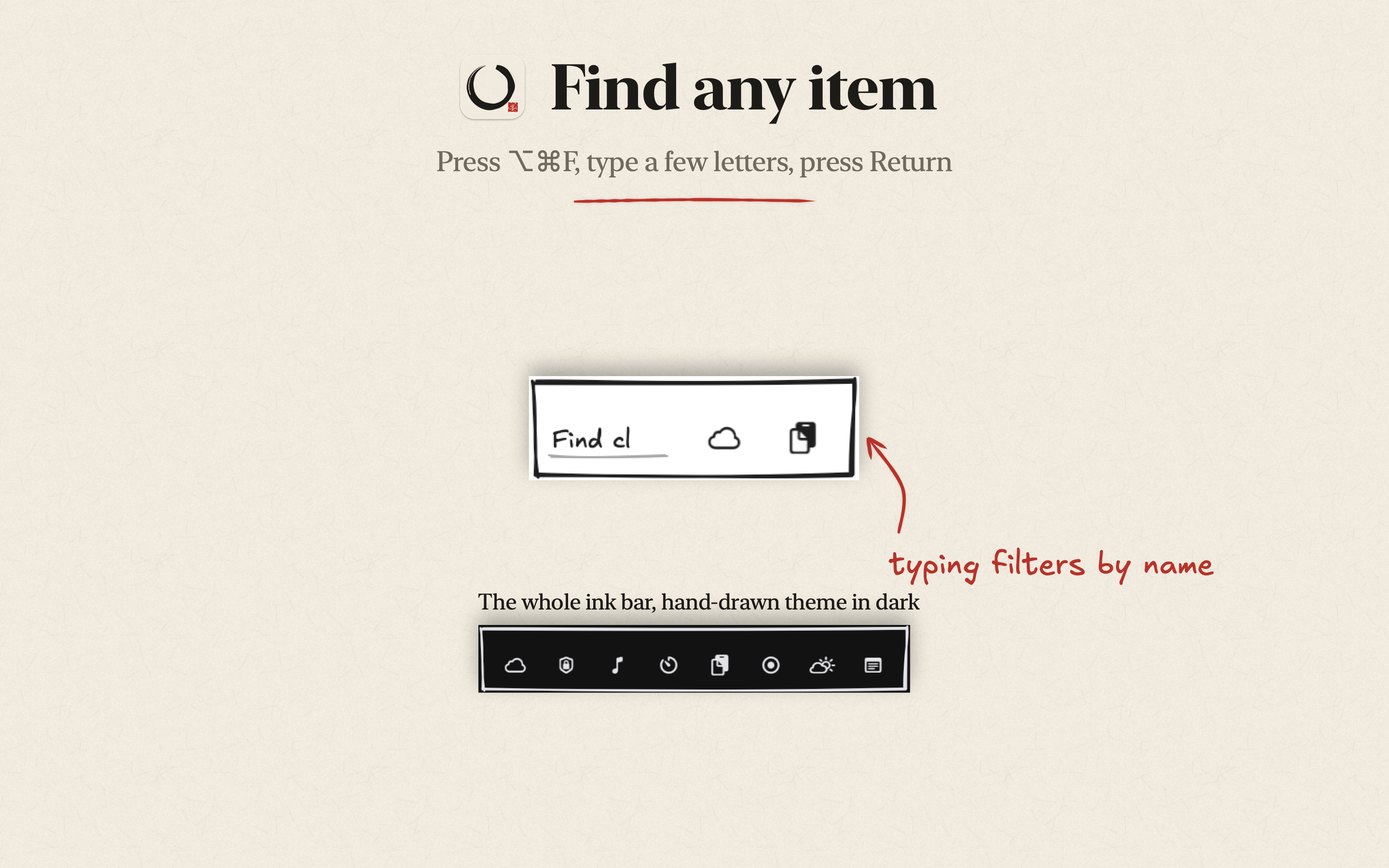
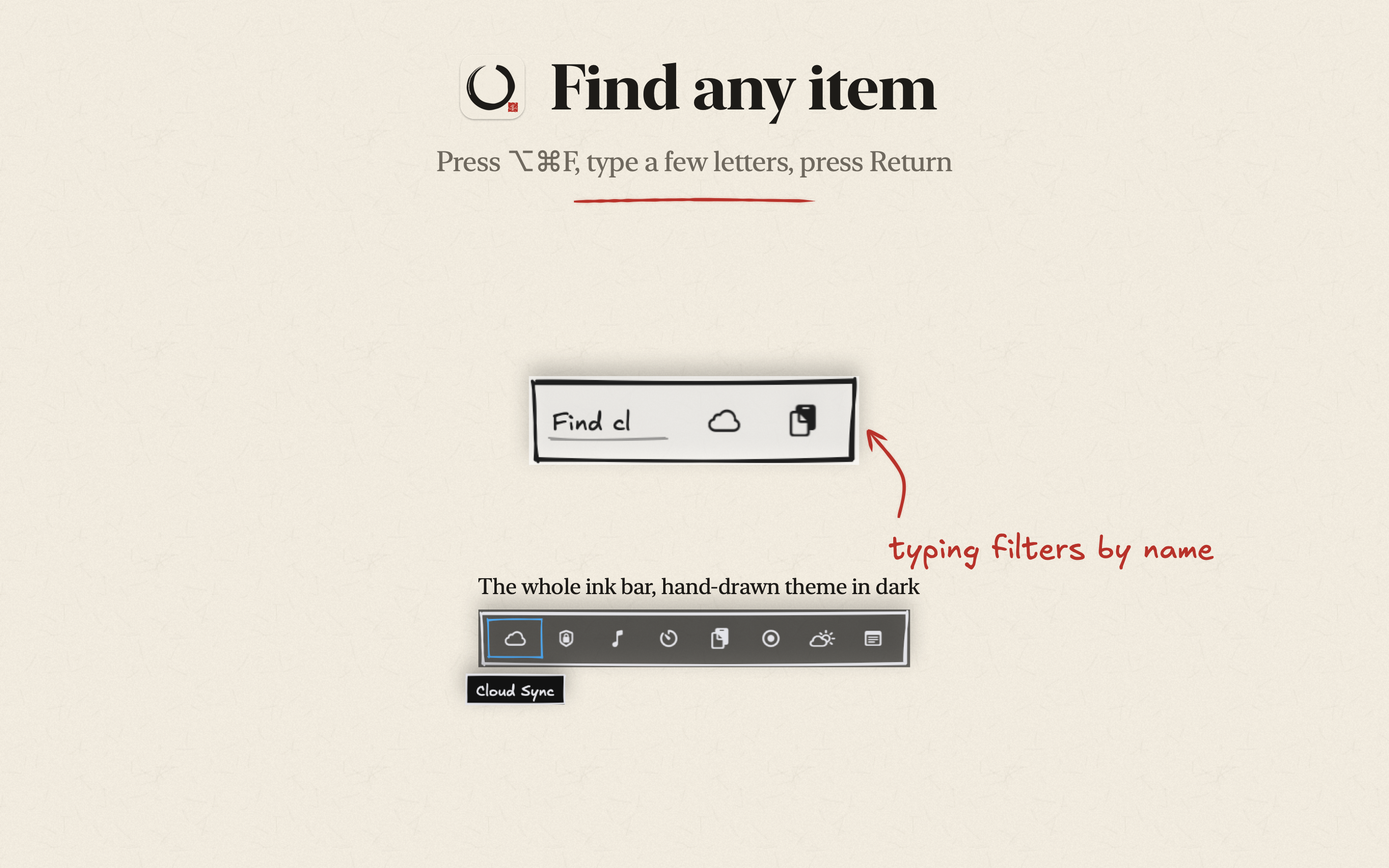
Tidy the ink bar's hover: one mark, the name in a tag below, a compact bar
The sketch theme drew both a box and an underline around the hovered item, and
the name sat in a row of its own at the bar's top edge, which also made the bar
taller. Each theme now draws one mark, the bar is back to its compact height,
and the name appears in a small paper tag under the bar, centered on the item.

Changed region(s): [[0.3125, 0.6222, 0.875, 0.8089], [0.375, 0.4356, 0.6562, 0.56]]

diff --git a/Sources/InkBar/UI/BarPanel.swift b/Sources/InkBar/UI/BarPanel.swift
@@ -21,6 +21,7 @@ private final class KeyPanel: NSPanel {
 final class BarPanelController {
     private let panel: KeyPanel
     private let view: BarView
+    private let tag = NameTag()
     private var outsideClick: Any?
     var onActivate: ((BarCell) -> Void)?
     var isVisible: Bool { panel.isVisible }
@@ -41,6 +42,15 @@ final class BarPanelController {
             self?.onActivate?(cell)
         }
         view.onClose = { [weak self] in self?.hide() }
+        view.onHover = { [weak self] hover in self?.showName(hover) }
+    }
+
+    /// The hovered item's name, in a small tag under the bar, centered on the item.
+    private func showName(_ hover: (name: String, rect: CGRect)?) {
+        guard let hover, panel.isVisible else { return tag.hide() }
+        let onScreen = panel.convertToScreen(view.convert(hover.rect, to: nil))
+        tag.show(hover.name, painter: view.painter, appearance: panel.appearance,
+                 centeredAt: onScreen.midX, below: panel.frame.minY - 4, within: panel.screen?.visibleFrame)
     }
 
     func show(_ cells: [BarCell], painter: Painter, appearance: NSAppearance?, search: Bool) {
@@ -71,6 +81,7 @@ final class BarPanelController {
     }
 
     func hide() {
+        tag.hide()
         panel.orderOut(nil)
         if let outsideClick { NSEvent.removeMonitor(outsideClick) }
         outsideClick = nil
@@ -81,9 +92,7 @@ final class BarPanelController {
 }
 
 final class BarView: NSView {
-    static let height: CGFloat = 54
-    /// The top row holds the hovered item's name, clear of the border.
-    private let nameRow: CGFloat = 10
+    static let height: CGFloat = 46
     private let pad: CGFloat = 12, gap: CGFloat = 6, iconHeight: CGFloat = 22
 
     var painter = Painter(theme: .ink, palette: .make(.ink, dark: false), texture: 1)
@@ -91,9 +100,12 @@ final class BarView: NSView {
     var query: String? { didSet { needsDisplay = true; invalidateIntrinsicContentSize() } }
     var onActivate: ((BarCell) -> Void)?
     var onClose: (() -> Void)?
+    /// The hovered item's name and where it sits in the bar, or nil when nothing is hovered.
+    var onHover: (((name: String, rect: CGRect)?) -> Void)?
 
-    private var hovered: Int?
-    private var rects: [CGRect] = []
+    /// Set by the pointer, or directly when drawing the README screenshots.
+    var hovered: Int? { didSet { needsDisplay = true } }
+    private(set) var rects: [CGRect] = []
     private var paper: (dark: Bool, image: CGImage)?
 
     override var isFlipped: Bool { true }
@@ -128,7 +140,7 @@ final class BarView: NSView {
     private func layout(_ ctx: CGContext?) -> CGFloat {
         let p = painter, pal = p.palette
         var x = pad
-        let midY = (Self.height + nameRow) / 2
+        let midY = Self.height / 2
         if ctx != nil { rects = [] }
 
         if let query {
@@ -178,16 +190,17 @@ final class BarView: NSView {
     private func drawCell(_ ctx: CGContext, _ cell: BarCell, rect: CGRect, hovered: Bool) {
         let p = painter, pal = p.palette
         if hovered {
+            // One mark per theme: a wash with a brush stroke under it, or a hand-drawn box.
             switch p.theme {
             case .ink:
                 ctx.saveGState()
                 ctx.setFillColor(pal.ink.copy(alpha: 0.07)!)
                 ctx.fill(rect.insetBy(dx: -3, dy: -3))
                 ctx.restoreGState()
+                p.rule(ctx, from: CGPoint(x: rect.minX, y: rect.maxY + 5), to: CGPoint(x: rect.maxX, y: rect.maxY + 5), seed: 11)
             case .sketch:
-                p.outline(ctx, rect.insetBy(dx: -3, dy: -3), color: pal.a, seed: 31, small: true)
+                p.outline(ctx, rect.insetBy(dx: -4, dy: -4), color: pal.a, seed: 31, small: true)
             }
-            p.rule(ctx, from: CGPoint(x: rect.minX, y: rect.maxY + 5), to: CGPoint(x: rect.maxX, y: rect.maxY + 5), seed: 11)
         }
         let flipped = { (draw: () -> Void) in
             ctx.saveGState()
@@ -211,10 +224,6 @@ final class BarView: NSView {
         }
         if !Notarization.isTrusted(cell.entry.bundleURL) {
             p.dot(ctx, CGPoint(x: rect.maxX, y: rect.minY), radius: 2, seed: 5)
-        }
-        if hovered {
-            let label = NSAttributedString.styled(cell.name, p.fonts.text(10), pal.sub)
-            label.draw(at: CGPoint(x: max(10, min(rect.minX, bounds.width - label.size().width - 10)), y: 4))
         }
     }
 
@@ -250,12 +259,16 @@ final class BarView: NSView {
     override func mouseMoved(with event: NSEvent) {
         let point = convert(event.locationInWindow, from: nil)
         let index = rects.firstIndex { $0.insetBy(dx: -3, dy: -6).contains(point) }
-        if index != hovered { hovered = index; needsDisplay = true }
+        guard index != hovered else { return }
+        hovered = index
+        needsDisplay = true
+        onHover?(index.flatMap { i in visibleCells.indices.contains(i) ? (visibleCells[i].name, rects[i]) : nil })
     }
 
     override func mouseExited(with event: NSEvent) {
         hovered = nil
         needsDisplay = true
+        onHover?(nil)
     }
 
     override func mouseUp(with event: NSEvent) {
@@ -280,5 +293,73 @@ final class BarView: NSView {
         frame.origin.x = frame.maxX - fittingSize.width
         frame.size.width = fittingSize.width
         window.setFrame(frame, display: true)
+    }
+}
+
+/// A small paper tag that names the hovered item, under the bar.
+private final class NameTag {
+    private let panel: NSPanel
+    private let view = NameTagView()
+
+    init() {
+        panel = NSPanel(contentRect: .zero, styleMask: [.borderless, .nonactivatingPanel], backing: .buffered, defer: true)
+        panel.isOpaque = false
+        panel.backgroundColor = .clear
+        panel.hasShadow = true
+        panel.level = .popUpMenu
+        panel.ignoresMouseEvents = true
+        panel.collectionBehavior = [.canJoinAllSpaces, .fullScreenAuxiliary]
+        panel.contentView = view
+    }
+
+    func show(_ name: String, painter: Painter, appearance: NSAppearance?, centeredAt x: CGFloat, below top: CGFloat, within bounds: CGRect?) {
+        view.painter = painter
+        view.name = name
+        let size = view.fittingSize
+        var origin = CGPoint(x: x - size.width / 2, y: top - size.height)
+        if let bounds { origin.x = min(max(origin.x, bounds.minX + 4), bounds.maxX - size.width - 4) }
+        panel.appearance = appearance
+        panel.setFrame(CGRect(origin: origin, size: size), display: true)
+        view.needsDisplay = true
+        panel.orderFrontRegardless()
+    }
+
+    func hide() { panel.orderOut(nil) }
+}
+
+final class NameTagView: NSView {
+    var painter = Painter(theme: .ink, palette: .make(.ink, dark: false), texture: 1)
+    var name = ""
+
+    override var isFlipped: Bool { true }
+
+    private var text: NSAttributedString {
+        NSAttributedString.styled(name, painter.fonts.text(11), painter.palette.ink)
+    }
+
+    override var fittingSize: NSSize {
+        let size = text.size()
+        return NSSize(width: ceil(size.width) + 20, height: ceil(size.height) + 10)
+    }
+
+    override func draw(_ dirtyRect: NSRect) {
+        guard let ctx = NSGraphicsContext.current?.cgContext else { return }
+        let pal = painter.palette
+        switch painter.theme {
+        case .ink:
+            let shape = CGPath(roundedRect: bounds.insetBy(dx: 0.5, dy: 0.5), cornerWidth: 4, cornerHeight: 4, transform: nil)
+            ctx.addPath(shape)
+            ctx.setFillColor(pal.paper)
+            ctx.fillPath()
+            ctx.addPath(shape)
+            ctx.setStrokeColor(pal.ink.copy(alpha: 0.15)!)
+            ctx.strokePath()
+        case .sketch:
+            ctx.setFillColor(pal.paper)
+            ctx.fill(bounds.insetBy(dx: 2, dy: 2))
+            painter.outline(ctx, bounds.insetBy(dx: 2.5, dy: 2.5), color: pal.ink, width: 1.2, seed: 61, small: true)
+        }
+        let size = text.size()
+        text.draw(at: CGPoint(x: (bounds.width - size.width) / 2, y: (bounds.height - size.height) / 2))
     }
 }

diff --git a/Sources/InkBar/App/Screenshots.swift b/Sources/InkBar/App/Screenshots.swift
@@ -32,9 +32,11 @@ enum Screenshots {
             return BarCell(entry: entry, index: 0, alwaysHidden: false)
         }
         // Rendered before any slide makes its own drawing context current.
-        let inkBar = bar(cells, theme: .ink, dark: false, query: nil)
+        let (inkBar, hoverRect) = hoveredBar(cells, theme: .ink, dark: false, index: 2)
+        let nameTag = tag(cells[2].name, theme: .ink, dark: false)
         let sketchSearch = bar(cells, theme: .sketch, dark: false, query: "cl")
-        let sketchDark = bar(cells, theme: .sketch, dark: true, query: nil)
+        let (sketchDark, sketchHover) = hoveredBar(cells, theme: .sketch, dark: true, index: 0)
+        let sketchTag = tag(cells[0].name, theme: .sketch, dark: true)
         let overflowBar = bar(Array(cells.prefix(3)), theme: .ink, dark: false, query: nil)
 
         let model = SettingsModel()
@@ -63,8 +65,11 @@ enum Screenshots {
             let size = CGSize(width: inkBar.size.width * scale, height: inkBar.size.height * scale)
             let frame = CGRect(x: desk.maxX - 40 - size.width, y: desk.minY + height + 30, width: size.width, height: size.height)
             shadowed(ctx) { Promo.image(inkBar, in: frame) }
-            note(ctx, "click any item to open its menu", from: CGPoint(x: frame.minX - 40, y: frame.maxY + 210),
-                 to: CGPoint(x: frame.minX + 150, y: frame.maxY + 24))
+            let tagSize = CGSize(width: nameTag.size.width * scale, height: nameTag.size.height * scale)
+            let tagX = frame.minX + hoverRect.midX * scale - tagSize.width / 2
+            shadowed(ctx) { Promo.image(nameTag, in: CGRect(x: tagX, y: frame.maxY + 12, width: tagSize.width, height: tagSize.height)) }
+            note(ctx, "click any item to open its menu", from: CGPoint(x: frame.minX - 40, y: frame.maxY + 250),
+                 to: CGPoint(x: tagX - 10, y: frame.maxY + 12 + tagSize.height / 2))
         }
 
         Promo.slide(title: "No more »", subtitle: "Items that don't fit move to the ink bar instead of behind the system's chevron",
@@ -97,6 +102,11 @@ enum Screenshots {
             let fullFrame = CGRect(x: Promo.content.midX - full.width / 2, y: searchFrame.maxY + 300, width: full.width, height: full.height)
             caption("The whole ink bar, hand-drawn theme in dark", at: CGPoint(x: fullFrame.minX, y: fullFrame.minY - 76))
             shadowed(ctx) { Promo.image(sketchDark, in: fullFrame) }
+            let tagSize = CGSize(width: sketchTag.size.width * 2.6, height: sketchTag.size.height * 2.6)
+            shadowed(ctx) {
+                Promo.image(sketchTag, in: CGRect(x: fullFrame.minX + sketchHover.midX * 2.6 - tagSize.width / 2, y: fullFrame.maxY + 10,
+                                                  width: tagSize.width, height: tagSize.height))
+            }
         }
 
         Promo.slide(title: "Triggers and profiles", subtitle: "Bring items back when the battery runs low, you go offline, or an app comes to the front",
@@ -134,6 +144,36 @@ enum Screenshots {
         glyph.draw(in: CGRect(x: (size.width - glyph.size.width) / 2, y: (size.height - glyph.size.height) / 2, width: glyph.size.width, height: glyph.size.height))
         NSGraphicsContext.restoreGraphicsState()
         return ctx.makeImage()
+    }
+
+    /// The bar with one item hovered, and where that item sits in it.
+    private static func hoveredBar(_ cells: [BarCell], theme: ThemeID, dark: Bool, index: Int) -> (NSImage, CGRect) {
+        let view = BarView(frame: .zero)
+        view.appearance = NSAppearance(named: dark ? .darkAqua : .aqua)
+        view.painter = Painter(theme: theme, palette: .make(theme, dark: dark), texture: 1)
+        view.cells = cells
+        view.hovered = index
+        view.frame = NSRect(origin: .zero, size: view.fittingSize)
+        let image = NSImage(size: view.bounds.size)
+        if let rep = view.bitmapImageRepForCachingDisplay(in: view.bounds) {
+            view.cacheDisplay(in: view.bounds, to: rep)
+            image.addRepresentation(rep)
+        }
+        return (image, view.rects.indices.contains(index) ? view.rects[index] : .zero)
+    }
+
+    private static func tag(_ name: String, theme: ThemeID, dark: Bool) -> NSImage {
+        let view = NameTagView()
+        view.appearance = NSAppearance(named: dark ? .darkAqua : .aqua)
+        view.painter = Painter(theme: theme, palette: .make(theme, dark: dark), texture: 1)
+        view.name = name
+        view.frame = NSRect(origin: .zero, size: view.fittingSize)
+        let image = NSImage(size: view.bounds.size)
+        if let rep = view.bitmapImageRepForCachingDisplay(in: view.bounds) {
+            view.cacheDisplay(in: view.bounds, to: rep)
+            image.addRepresentation(rep)
+        }
+        return image
     }
 
     private static func bar(_ cells: [BarCell], theme: ThemeID, dark: Bool, query: String?) -> NSImage {
